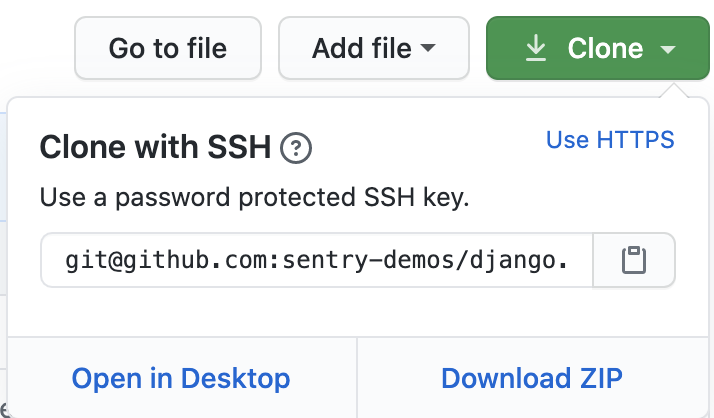
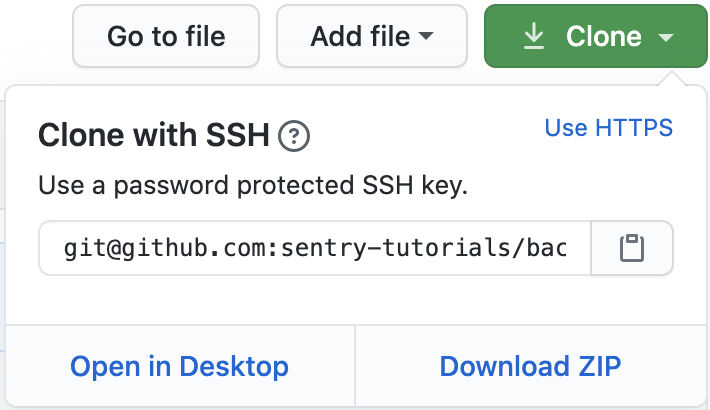
update links, add page and screenshots.

diff --git a/src/collections/_documentation/guides/tutorials/integrate-backend/configuration_options.md b/src/collections/_documentation/guides/tutorials/integrate-backend/configuration_options.md
@@ -3,7 +3,7 @@ title: Configuration Options
 sidebar_order: 2
 ---
 
-Sentry has many configurations options to help enhance your experince using Sentry. The options can help provide additional data needed to debug issues even faster or help control what is sent to Sentry by filtering.
+Sentry has many configurations options to help enhance your experience using Sentry. The options can help provide additional data needed to debug issues even faster or help control what is sent to Sentry by filtering.
 
 > **Note:** View the full list of configuration options [here](https://docs.sentry.io/error-reporting/configuration/?platform=python).
 
@@ -13,11 +13,11 @@ A `release` is a version of your code that is deployed to an environment. Releas
 
 1. In the file `settings.py` within the initial setup of Sentry, add the configuration option `release` and set it to a value of your choice.
 
-> If you are not interested connecting Sentry's releases to an integration, you can skip the following steps.
+> If you are not interested in connecting Sentry's releases to an integration, you can skip the following steps.
 
 2. The value assigned to the release within the `Django-demo` app is `os.environ.get("VERSION")`.
 
-3. Now that the release is set within the SDK, using [sentry-cli](https://docs.sentry.io/cli/) we can connect our repo with our app. Using the `Makefile` we first create release
+3. Now that the release is set within the SDK, using [sentry-cli](https://docs.sentry.io/cli/) we can connect our repo with our app. Using the `Makefile` we first create the release
    > `$(VERSION)` refers to the release's ID
    ```bash
    > create_release:
@@ -52,11 +52,11 @@ In this part, we'll add breadcrumbs to our app.
 
 ## Environment
 
-`Environment` is a powerful configuration that enables developers using Sentry to filter issues, releases, and userfeedback within the Issues Details page in the U/I. Sometimes there might be cases where you are focused on a particular environment and want to see issues related to that environment. Having the option to filter the environment, your workflow becomes a lot more clearer and the time it takes to debug issues you are focused on easier.
+`Environment` is a powerful configuration that enables developers using Sentry to filter issues, releases, and user feedback within the Issues Details page in the U/I. Sometimes there might be cases where you are focused on a particular environment and want to see issues related to that environment. Having the option to filter the environment, your workflow becomes a lot more clearer and the time it takes to debug issues you are focused on easier.
 
-1. In the `views.py` file, in the initializatio of (`sentry_sdk.init()`), add the configuration option `environment`.
+1. In the `views.py` file, in the initialization of (`sentry_sdk.init()`), add the configuration option `environment`.
 
-2. Set the `environment` variable to any value you feel is appropriate. In our example, I've set it to `Production` indiciating the issue occurred within the production.
+2. Set the `environment` variable to any value you feel is appropriate. In our example, I've set it to `Production` indicating the issue occurred within the production.
 
    ```python
     environment:"Production"
@@ -66,4 +66,4 @@ In this part, we'll add breadcrumbs to our app.
 
 ## Next
 
-[Integrating Frontend and Backend code together]({%- link _documentation/guides/tutorials/integrate-backend/adding-code.md -%})
+[Handled vs Unhandled Errors]({%- link _documentation/guides/tutorials/integrate-backend/handled_vs_unhandled.md -%})

diff --git a/src/collections/_documentation/guides/tutorials/integrate-backend/getting-started.md b/src/collections/_documentation/guides/tutorials/integrate-backend/getting-started.md
@@ -3,15 +3,33 @@ title: Getting Started
 sidebar_order: 1
 ---
 
+In this tutorial, you will import the backend app source code into your local development environment, add the Sentry SDK and initialize it. **Please** view the [frontend guide](https://docs.sentry.io/guides/integrate-frontend/create-new-project/) to learn more about how to create a project and alert rules.
+
+> **Note:** If you're using your own source code you can skip this tutorial and instead
+>
+> - Follow the instructions within [this doc](https://docs.sentry.io/error-reporting/quickstart/?platform=python). Notice that you can select the desired platform.
+> - Continue with the [Next tutorial]({%- link _documentation/guides/tutorials/integrate-frontend/generate-first-error.md -%})
+
+---
+
+## Prerequisites
+
+The demo app source code requires a **Python** development environment to build install and run the application. Make sure that you have the following in place:
+
+- A source code editor (like [VS-Code](https://code.visualstudio.com))
+- [Python3](https://www.python.org/download/releases/3.0/)
+- [Sentry-Cli](https://docs.sentry.io/cli/)
+- [NPM](https://www.npmjs.com/)
+
 ## Step 1: Get the Code
 
-1. Open the sample [code repository](https://github.com/sentry-demos/django) on GitHub
+1. Open the sample [code repository](https://github.com/sentry-tutorials/backend-monitoring) on GitHub
 
 2. Click on `Fork` and select the target GitHub account you wish this repository to be forked in to
 
    ![Fork Repository]({% asset guides/integrate-backend/fork_django.png @path %})
 
-3. Once the fork is complete, click on `Clone or download` and copy the repository HTTPS url
+3. Once the fork is complete, click on `Clone or download` and copy the repository HTTPS URL
 
    ![Clone Repository]({% asset guides/integrate-backend/clone_django.png @path %})
 
@@ -21,17 +39,17 @@ sidebar_order: 1
    > git clone <repository HTTPS url>
    ```
 
-5. Now that the sample code is available locally, open the `Django` project in your preferred code editor
+5. Now that the sample code is available locally, open the `backend-monitoring` project in your preferred code editor
 
 ## Step 2: Install the SDK
 
-Sentry captures data by using a platform specific SDK within your application runtime. To use the SDK, import and configure it in your source code.
+Sentry captures data by using a platform-specific SDK within your application runtime. To use the SDK, import and configure it in your source code.
 
 The demo project uses Django for the backend code and REACT for the frontend code. Please refer to the [frontend guide]({%- link _documentation/guides/tutorials/integrate-frontend/index.md -%}) on how to set up your front end code.
 
 Refer to the [doc](https://docs.sentry.io/error-reporting/quickstart/?platform=python) on how to get started.
 
-1. Open the `settings.py` file (located under \_./django/myproject/settings.py). This is where we initialize and configure the Sentry SDK in our application.
+1. Open the `settings.py` file (located under \_./backend-monitoring/myproject/settings.py). This is where we initialize and configure the Sentry SDK in our application.
 
    <!-- ![Import and Configure SDK]({% asset guides/integrate-backend/sentry_init.png @path %}) -->
 

diff --git a/src/collections/_documentation/guides/tutorials/integrate-backend/adding-code.md b/src/collections/_documentation/guides/tutorials/integrate-backend/adding-code.md
@@ -1,11 +1,11 @@
 ---
 title: Integrating the Backend with the FrontEnd
-sidebar_order: 3
+sidebar_order: 4
 ---
 
 Now that the Demo App is up and running on your local environment integrated with the Sentry SDK, you're ready to integrate the front and backend together.
 
-> **Note:** If you're using your own source code, follow [Capturing your first event](https://docs.sentry.io/error-reporting/quickstart/?platform=python) to introduce an error to your source code and continue with [Step 2](#step-2-handle-the-error)
+> **Note:** If you're using your own source code, follow [Capturing your first event](https://docs.sentry.io/error-reporting/quickstart/?platform=python) to introduce an error to your source code.
 
 ## Integrating the Frontend and BackEnd
 
@@ -22,7 +22,7 @@ Integrating the frontend code and backend code is relatively straightforward. Th
 
    - **Note:** Please keep the tag fields consistent in both the frontend and backend app.
 
-**Note** The transactionID is generated from the trace. A trace represents the record of the entire operation you want to measure or track. A trace can be a single operation such as performing an action within an app or it can be a lot more indepth. For example, an action can be comitted within the frontend of your app which caused an error and your backend might respond back with an error as well. The trace_id is able to connect both the backend and frontend error together. This is valuable information knowing how the app in entirely connected which can enable a developer to debug both the front
+**Note** The transactionID is generated from the trace. A trace represents the record of the entire operation you want to measure or track. A trace can be a single operation such as performing an action within an app or it can be a lot more in-depth. For example, an action can be committed within the frontend of your app which caused an error and your backend might respond back with an error as well. The trace_id is able to connect both the backend and frontend error together. This is valuable information knowing how the app in entirely connected which can enable a developer to debug both the front
 
 ## Reporting an Error
 
@@ -45,7 +45,3 @@ Integrating the frontend code and backend code is relatively straightforward. Th
 4. Within the newest issue click on the `transaction_id` and you will be redirected to the Issues Stream with both issues related to one another displayed.
 
 ![Import and Configure SDK]({% asset guides/integrate-backend/issue_with_transaction_id.png @path %})
-
-## Next
-
-[Handled VS Unhandled]({%- link _documentation/guides/tutorials/integrate-backend/handled_vs_unhandled.md -%})

diff --git a/src/collections/_documentation/guides/tutorials/integrate-backend/index.md b/src/collections/_documentation/guides/tutorials/integrate-backend/index.md
@@ -1,25 +1,22 @@
 ---
-title: Backend Error Monitoring
-sidebar_order: 1
+title: Monitor Errors in Backend Applications
+sidebar_order: 0
 ---
 
-In this tutorial you will import the backend app source code into your local development environment, add the Sentry SDK and initialize it. **Please** view the [frontend guide](https://docs.sentry.io/guides/integrate-frontend/create-new-project/) to learn more about how to create a project and alert rules.
+This step-by-step guide walks you through the flow of setting up and configuring your Sentry account to monitor errors in your backend application. After completing this guide, you should:
 
-> **Note:** If you're using your own source code you can skip this tutorial and instead
+- Add basic configurations
+- Send handled and unhandled issues to Sentry
+- Implement tracing between your frontend and backend app
+
+> **Note:** We provided the source code for a sample Django application to use along with this guide. This allows us to streamline the steps required to getting the maximum value out of integrating Sentry into your development workflow.
 >
-> - Follow the instructions within [this doc](https://docs.sentry.io/error-reporting/quickstart/?platform=python). Notice that you can select the desired platform.
-> - Continue with the [Next tutorial]({%- link _documentation/guides/tutorials/integrate-frontend/generate-first-error.md -%})
-
----
+> Alternatively, you can follow this guide as a reference and apply the relevant changes directly to your source code.
 
 ## Prerequisites
 
-The demo app source code requires a **Python** development environment to build install and run the application. Make sure that you have the following in place:
-
-- A source code editor (like [VS-Code](https://code.visualstudio.com))
-- [Python3](https://www.python.org/download/releases/3.0/)
-- [Sentry-Cli](https://docs.sentry.io/cli/)
-- [NPM](https://www.npmjs.com/)
+- A [Sentry](https://sentry.io) account, or [sign up](https://sentry.io/signup/) for one
+- A [GitHub](https://github.com/) account, or [sign up](https://github.com/join) for one
 
 ## Next
 

diff --git a/src/collections/_documentation/guides/tutorials/integrate-backend/handled_vs_unhandled.md b/src/collections/_documentation/guides/tutorials/integrate-backend/handled_vs_unhandled.md
@@ -1,6 +1,6 @@
 ---
 title: Handled VS Unhandled
-sidebar_order: 4
+sidebar_order: 3
 ---
 
 Sentry is able to provide developers deep insight on handled and unhandled issues by using a simple captureException or captureMessage option. The configuration of this is very straightforward because regardless if you want to handle an error or not, you will be notified if an event triggered within your app sent to Sentry.
@@ -63,6 +63,10 @@ Unhandled Errors are generated during runtime when an issue is not caaught/handl
 
 **Note** If issue is handled there will be a tag that says `yes` or `no`. For unhandled issues, the tag will equal `no`. For handled issues, the tag will equal `yes`.
 
-![Import and Configure SDK]({% asset guides/integrate-backend/unhandled.png @path %})
+![Import and Configure SDK]({% asset guides/integrate-backend/error_with_all_tags.png @path %})
+
+## Next
+
+[Integrating Backend with the Frontend]({%- link _documentation/guides/tutorials/integrate-backend/adding-code.md -%})
 
 ---
